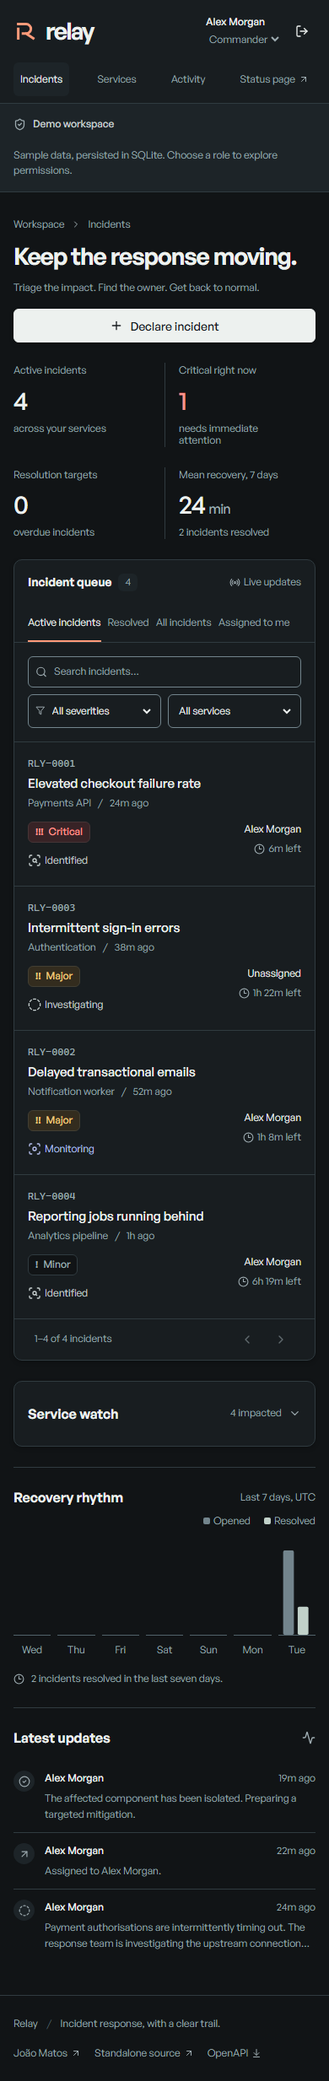
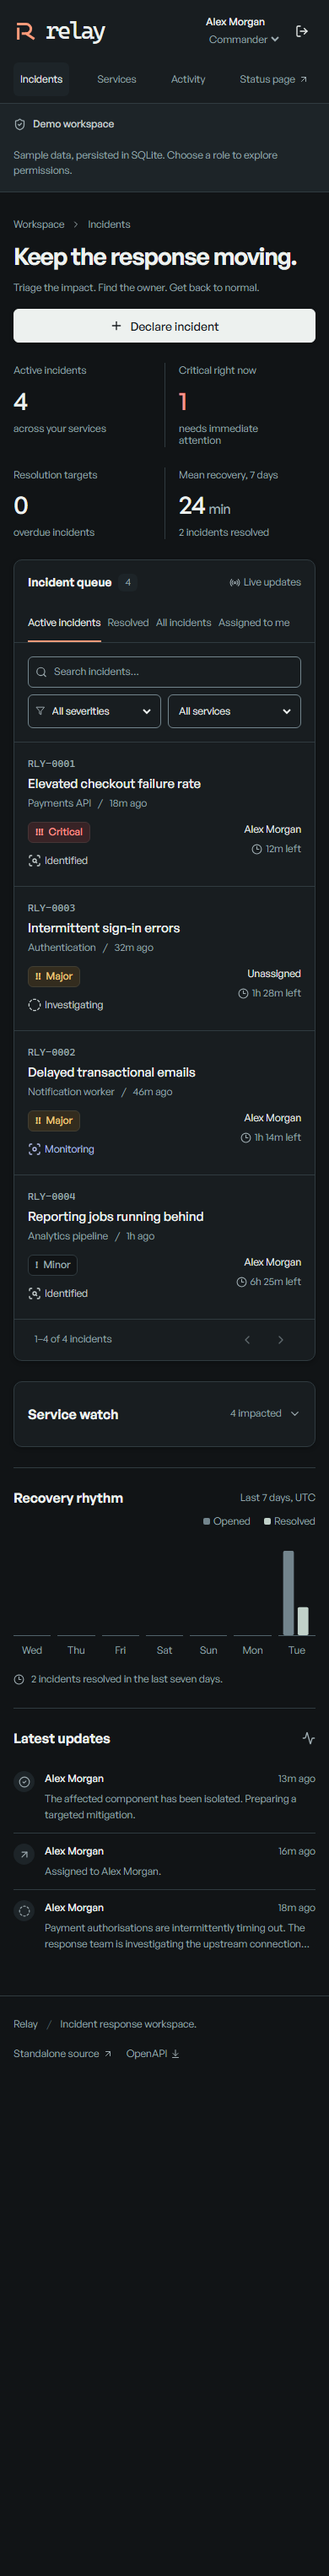
Remove portfolio navigation and refine console wordmark

diff --git a/web/src/App.tsx b/web/src/App.tsx
@@ -922,18 +922,9 @@ export default function App() {
       </main>
       <footer className="app-footer">
         <span>
-          Relay <span className="footer-slash">/</span> Incident response, with
-          a clear trail.
+          Relay <span className="footer-slash">/</span> Incident response
+          workspace.
         </span>
-        <a
-          href={
-            import.meta.env.VITE_PORTFOLIO_URL ||
-            "https://jpndmatos.github.io/Portfolio/#projects"
-          }
-        >
-          Back to portfolio
-          <ArrowUpRight size={12} aria-hidden="true" />
-        </a>
         <a href={sourceUrl} target="_blank" rel="noreferrer">
           Standalone source
           <ArrowUpRight size={12} aria-hidden="true" />

diff --git a/web/src/style.css b/web/src/style.css
@@ -221,8 +221,9 @@ label > textarea {
   gap: var(--space-xs);
   text-decoration: none;
   font-size: 30px;
-  font-weight: 600;
-  letter-spacing: -0.06em;
+  font-family: var(--font-outlier);
+  font-weight: 400;
+  letter-spacing: -0.09em;
   line-height: 1;
 }
 .brand-mark {
